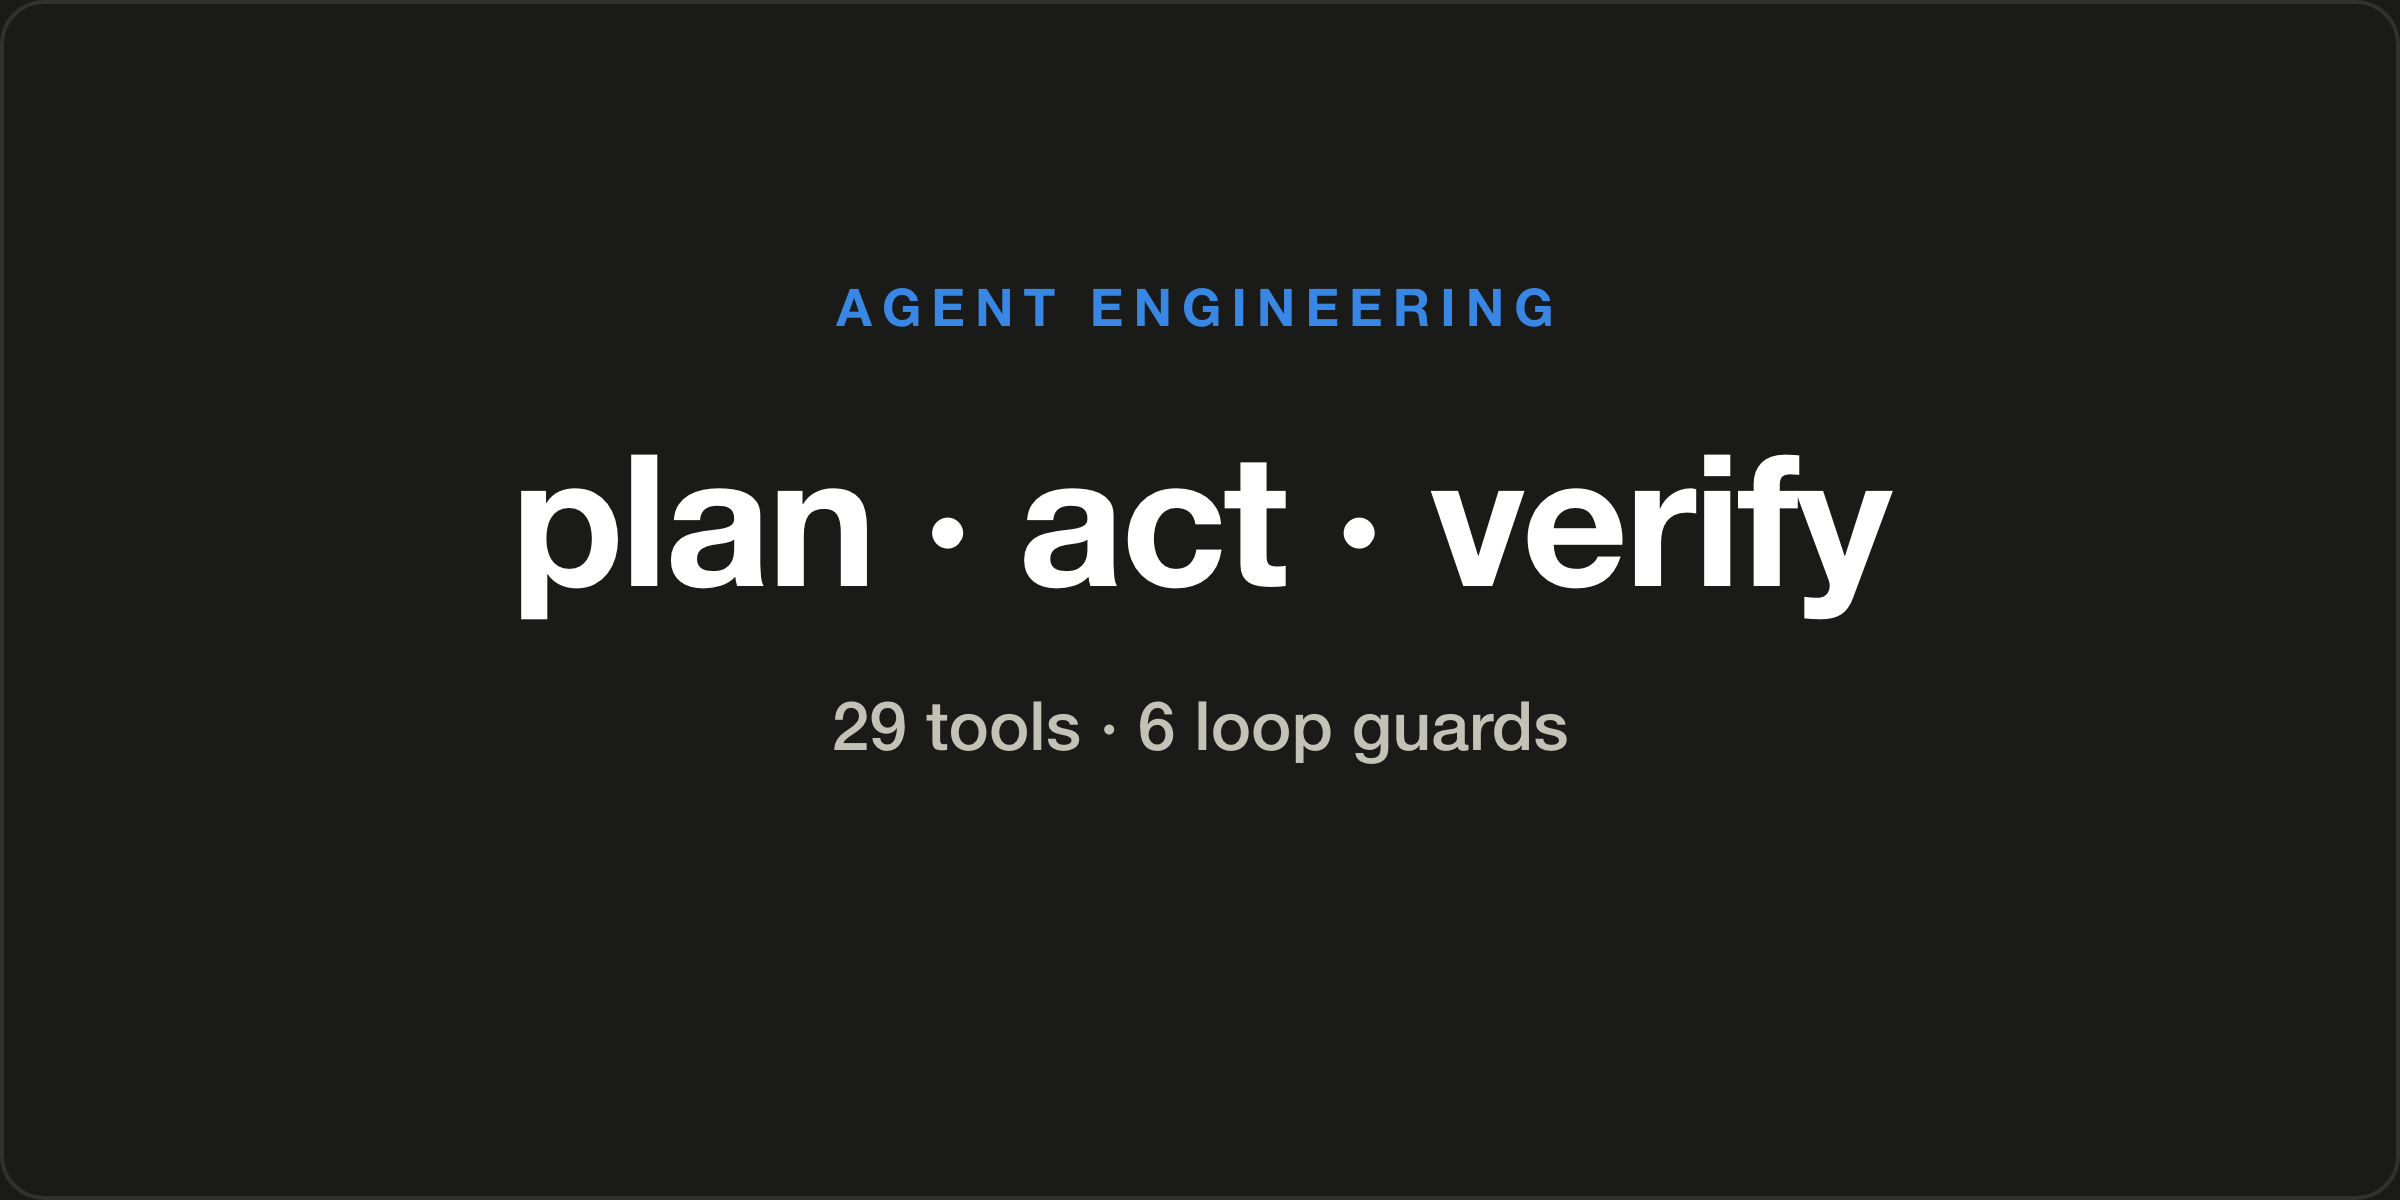
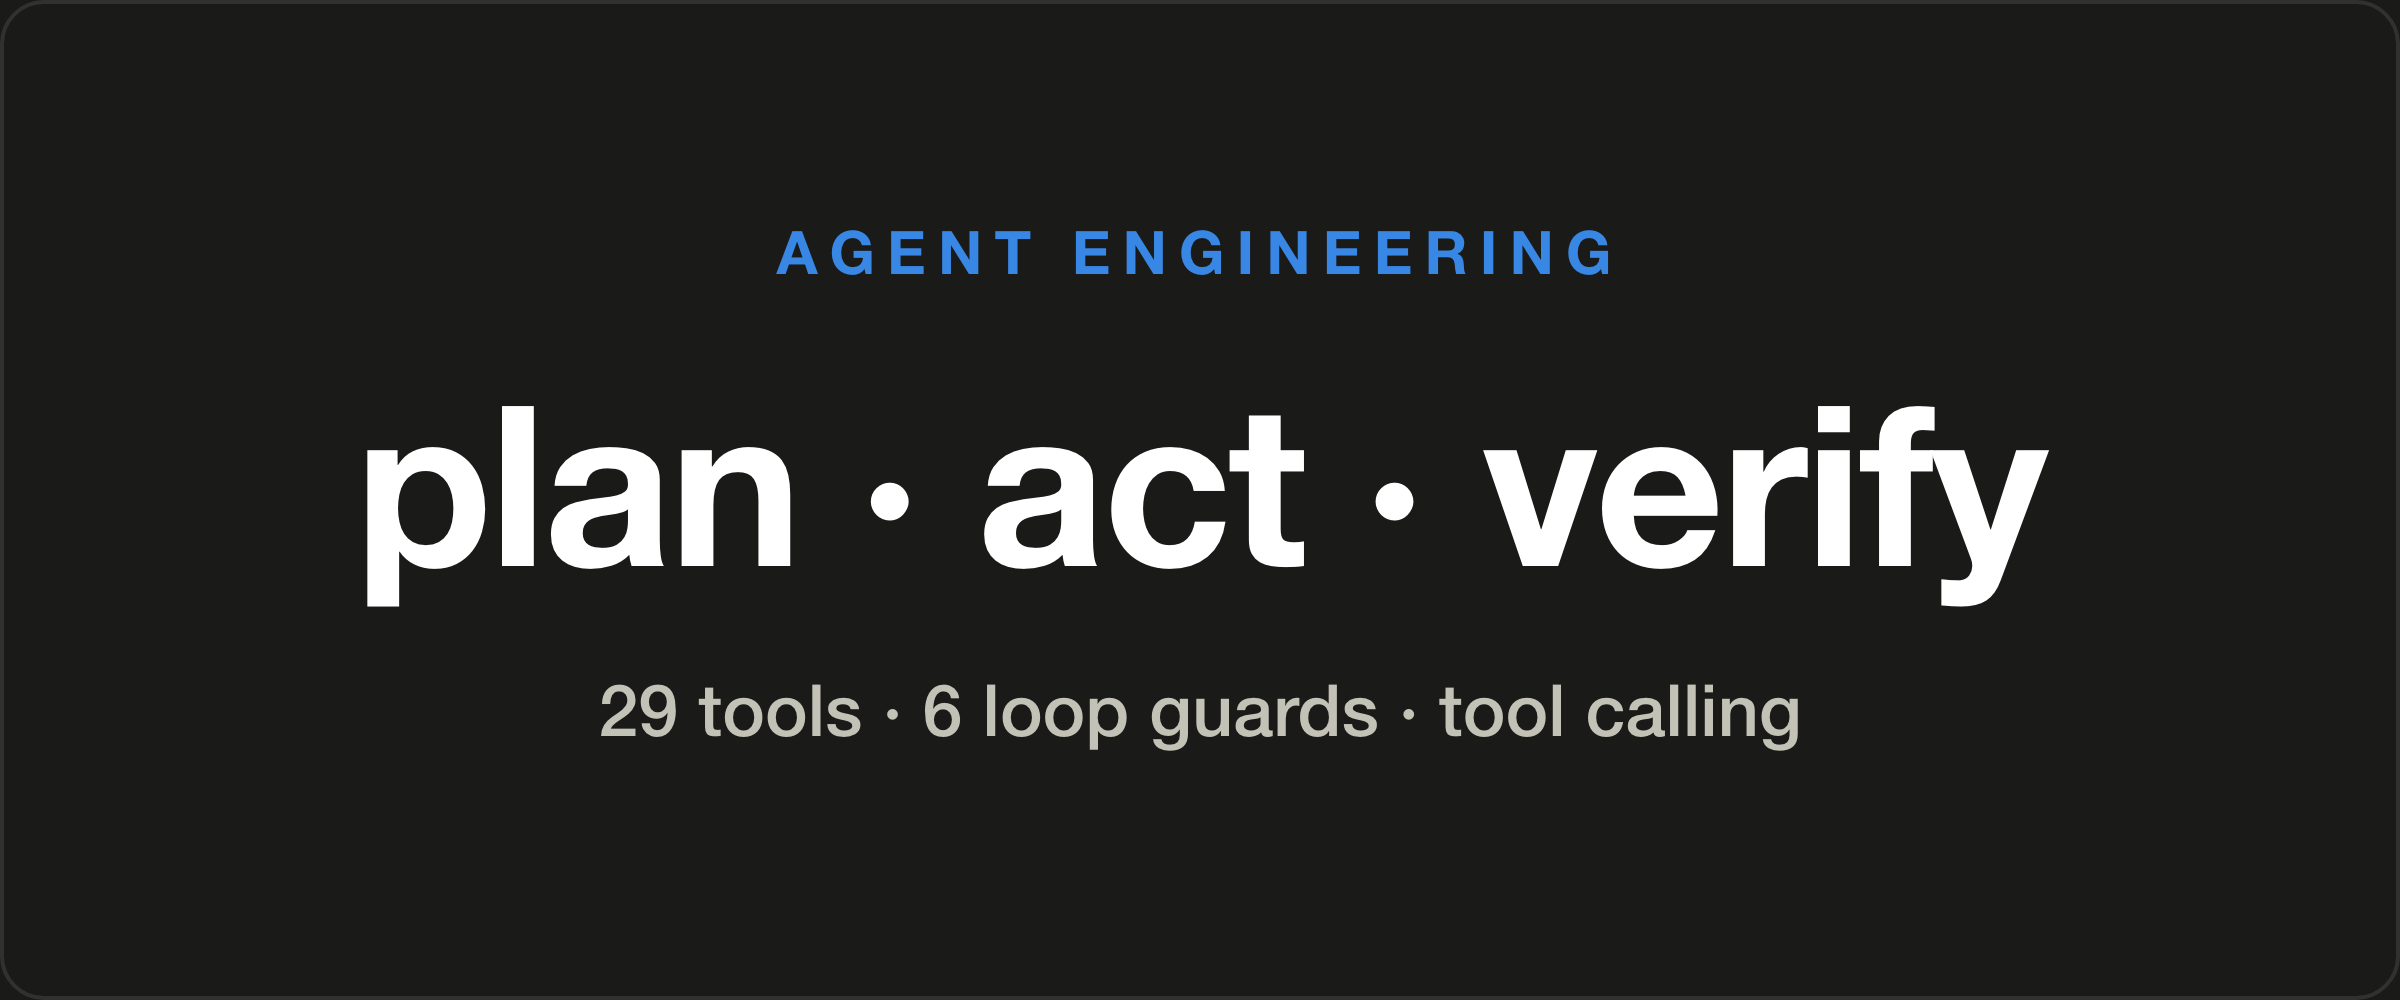
docs(readme): make the four cards name competencies rather than features
The set now reads as four disciplines a hiring reader can match against: agent
engineering, LLM security, LLM evaluation, MCP. Each card names the discipline,
proves it with a number the repo can reproduce, and lists the terms underneath -
prompt injection, jailbreak, regression budgets, native messaging - rather than
describing what the product does.

Local-first inference gave up its slot to MCP. Three MCP servers across these
repos is a pattern worth surfacing, and running offline stays visible in the
repo description and topics either way.

Cards are generated rather than drawn, so the eyebrow and headline sit on the
same baseline in all four, and headlines fit to a common measure instead of a
common point size - a long headline set at a short one's size ran to the edge.

Changed region(s): [[0.125, 0.372, 0.875, 0.651], [0.25, 0.682, 0.75, 0.744], [0.3125, 0.217, 0.6875, 0.279]]

diff --git a/README.md b/README.md
@@ -13,12 +13,12 @@ npm --prefix WebOperator/core run build
 Local models or cloud · Ten MCP tools · Open source
 
 <p align="center">
-  <img src="docs/assets/card-1-agent.png" width="49%" alt="Agent engineering: a plan, act and verify loop with 29 browser tools and 6 loop guards">
-  <img src="docs/assets/card-2-security.png" width="49%" alt="Red teaming: prompt-injection attack rate of 0.0% across the adversarial fixtures">
+  <img src="docs/assets/card-1-agent.png" width="49%" alt="Agent engineering: a plan, act and verify loop with 29 browser tools, 6 loop guards and tool calling">
+  <img src="docs/assets/card-2-security.png" width="49%" alt="LLM security: 0.0% attack rate against prompt injection and jailbreak across 9 adversarial fixtures">
 </p>
 <p align="center">
-  <img src="docs/assets/card-3-evaluation.png" width="49%" alt="LLM evaluation: 24 browser fixtures in a deterministic eval harness">
-  <img src="docs/assets/card-4-local.png" width="49%" alt="Local-first: runs offline on Ollama, or against any of 8 cloud providers">
+  <img src="docs/assets/card-3-evaluation.png" width="49%" alt="LLM evaluation: AssistantBench and 24 fixtures in a deterministic harness with regression budgets">
+  <img src="docs/assets/card-4-mcp.png" width="49%" alt="MCP: the browser exposed as an MCP server, 10 tools for any MCP client over a native messaging bridge">
 </p>
 
 ## Quick start
